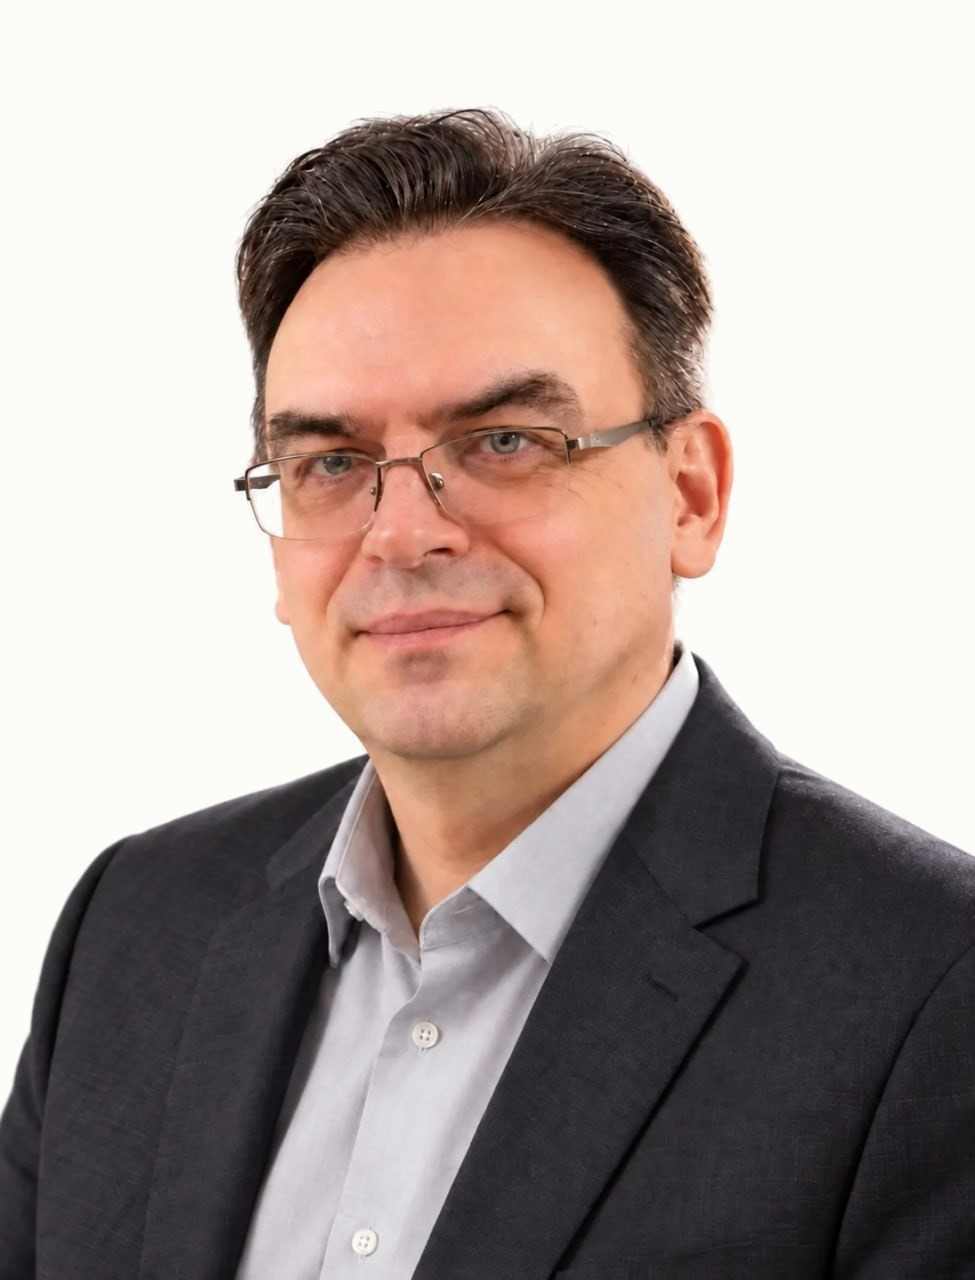
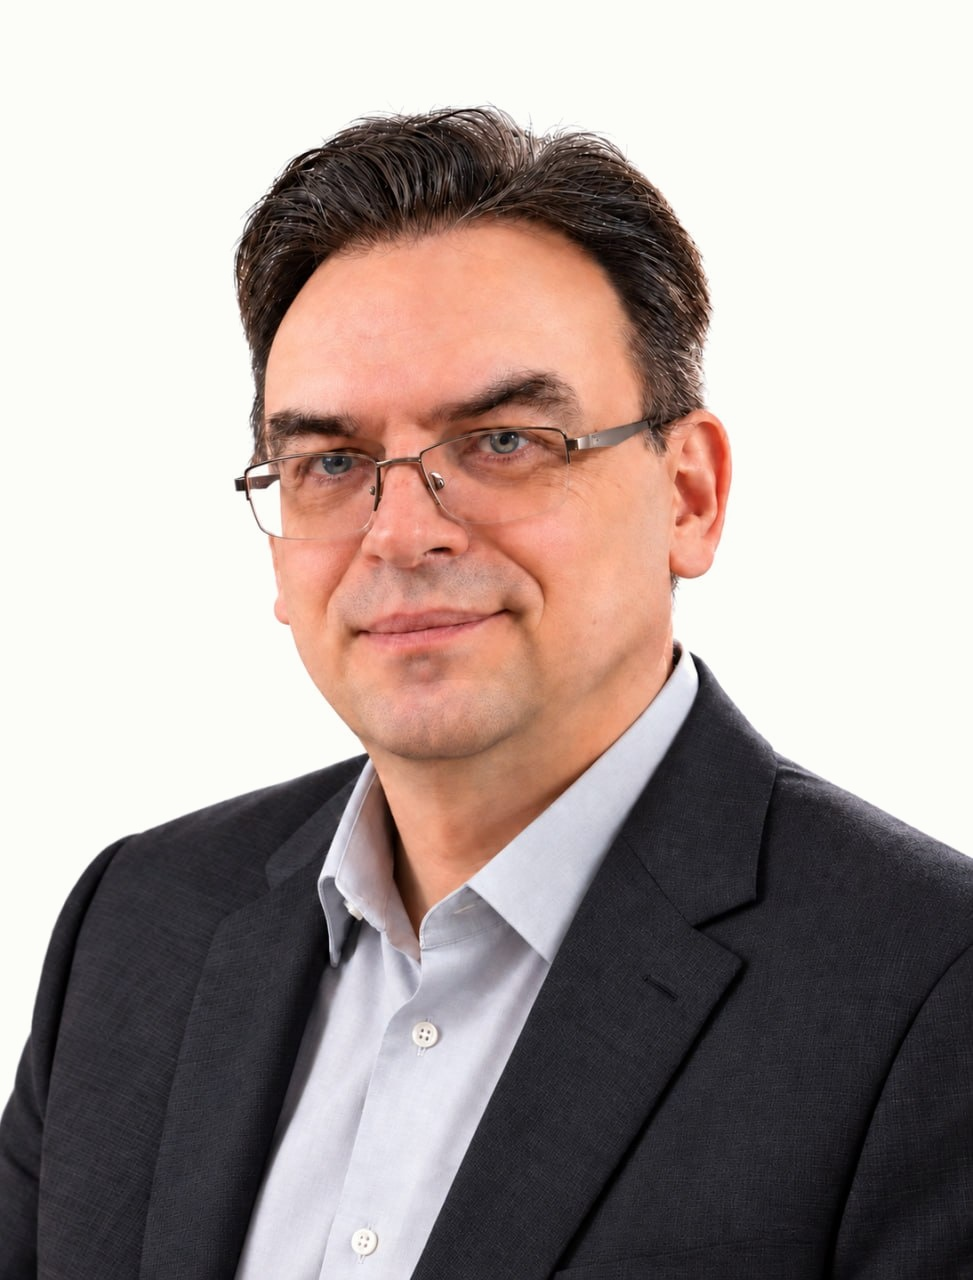
feat(portrait): замінити фото — тло точно #fcfcf9, переключити на webp
- нове портретне фото (973x1280) замість попереднього
- мат фону → #fcfcf9 (paper сайту), webp без JPEG-дрейфу — тло зливається без шва
- site.ts + layout.tsx: portrait.jpg → portrait.webp

diff --git a/src/app/layout.tsx b/src/app/layout.tsx
@@ -90,7 +90,7 @@ const personSchema = {
   jobTitle: site.role,
   email: `mailto:${site.email}`,
   url: site.url,
-  image: `${site.url}/portrait.jpg`,
+  image: `${site.url}/portrait.webp`,
   worksFor: { "@type": "Organization", name: site.org, alternateName: site.orgShort },
   address: { "@type": "PostalAddress", addressCountry: "UA", addressLocality: site.location },
   knowsAbout: ["Штучний інтелект", "OSINT", "Цифрова безпека", "Кібербезпека", "WEB-дизайн", "Обробка інформації", "Moodle", "Google Classroom"],

diff --git a/src/content/site.ts b/src/content/site.ts
@@ -64,7 +64,7 @@ export const site = {
   seoDescription:
     "Курси ШІ, кібербезпеки/OSINT, вебдизайну та обробки інформації у Львові (ЛЦПТО ДСЗ). Короткі модулі з практикою й проєктом на виході — 55 схвальних відгуків.",
   email: "olppara@gmail.com",
-  portrait: "/portrait.jpg",
+  portrait: "/portrait.webp",
   portraitAlt: "Паращук Олег Леонідович — портрет викладача ЛЦПТО ДСЗ, Львів",
 
   about: [
